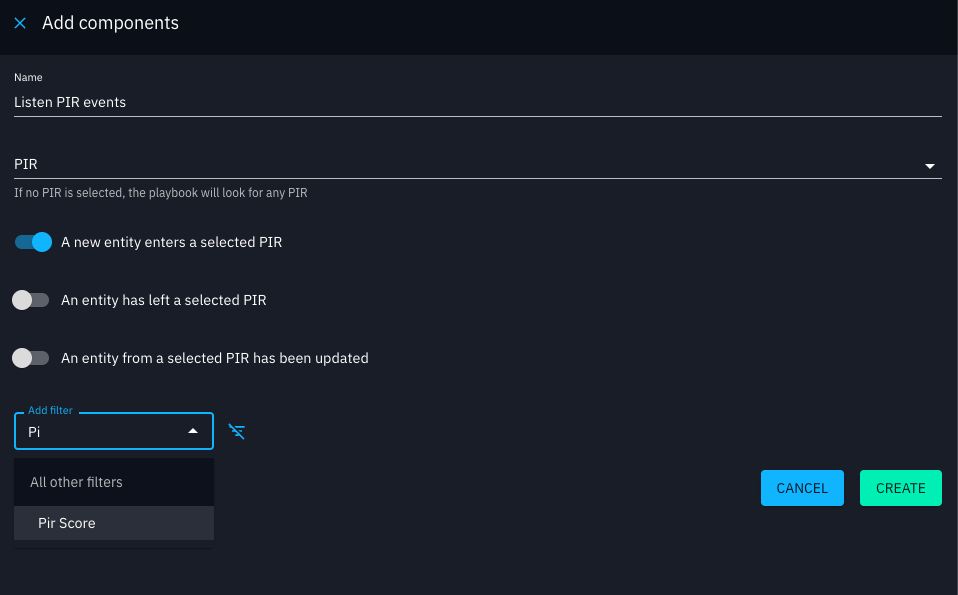
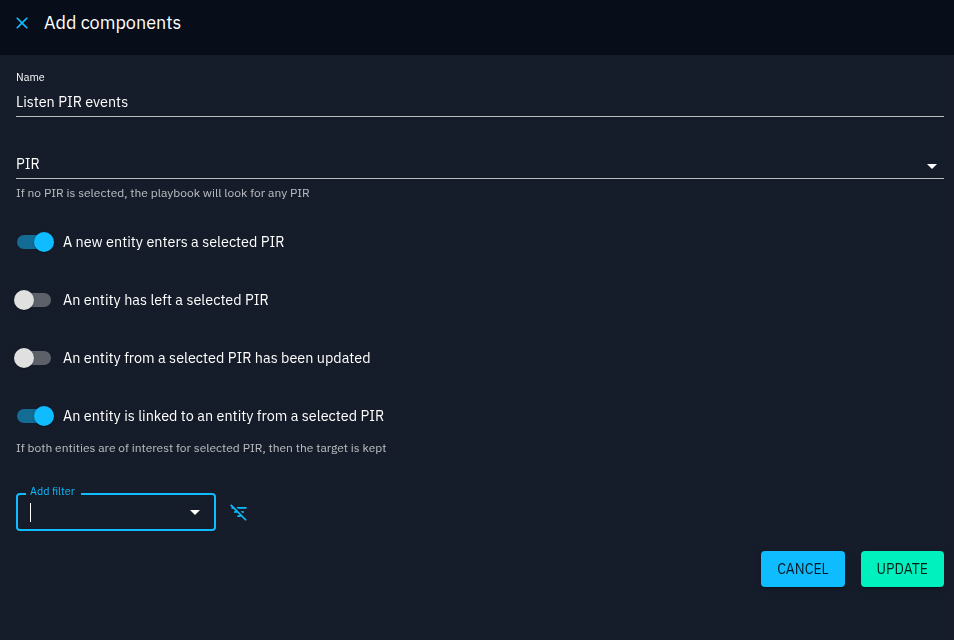
PIR in Playbooks - update with a new use case
* update doc

* update image

diff --git a/docs/usage/automation.md b/docs/usage/automation.md
@@ -94,9 +94,11 @@ Note that you are limited to a subset of filters available for stream events tha
 ### Listen PIR events
 
 This event source is focused on listening to PIR events. It allows you to select the PIRs you want to monitor and choose the specific cases in which the playbook will be triggered using the corresponding toggles:
+
 - A new entity becomes part of a selected PIR
 - An entity is no longer part of a selected PIR
 - An entity from a selected PIR is updated
+- An entity is linked to an other entity that is part of a selected PIR
 
 > Note: By default, if no PIR is selected, all available PIRs will be applied.
 
@@ -119,6 +121,12 @@ This toggle triggers the playbook when an entity is no longer part of at least o
 #### An entity from a selected PIR is updated
 
 This triggers the playbook when an entity that is part of at least one selected PIR is updated.
+
+> Note: By default, if no PIR is selected, all available PIRs will be applied.
+
+#### An entity is linked to an other entity that is part of a selected PIR
+
+This toggle triggers the playbook when a new relationship is created between an entity and an other one that is part of at least one selected PIR.
 
 > Note: By default, if no PIR is selected, all available PIRs will be applied.
 
